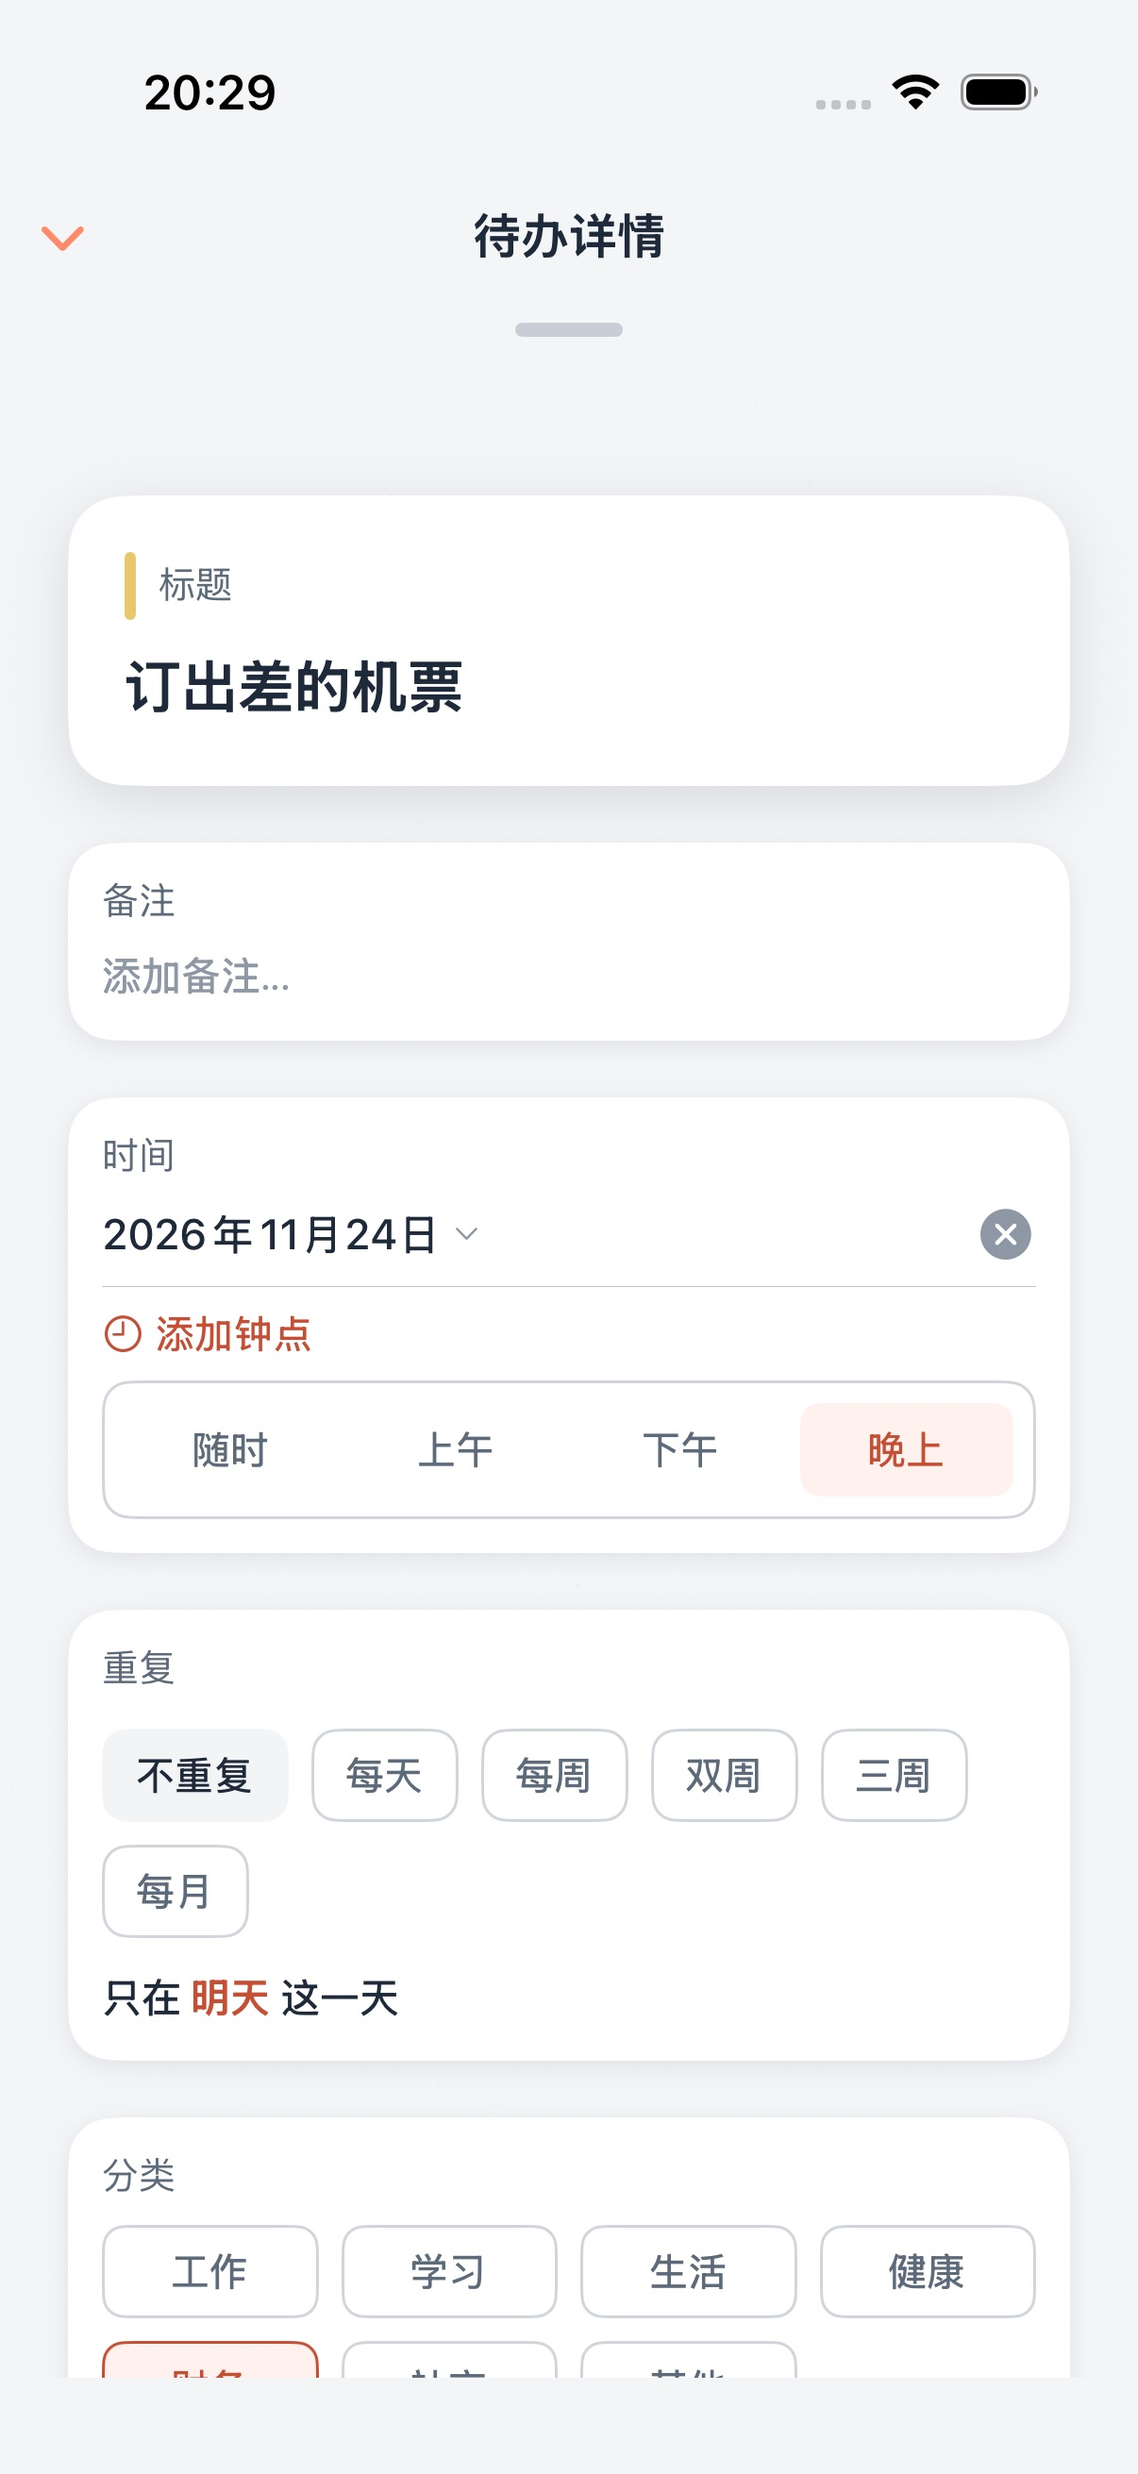
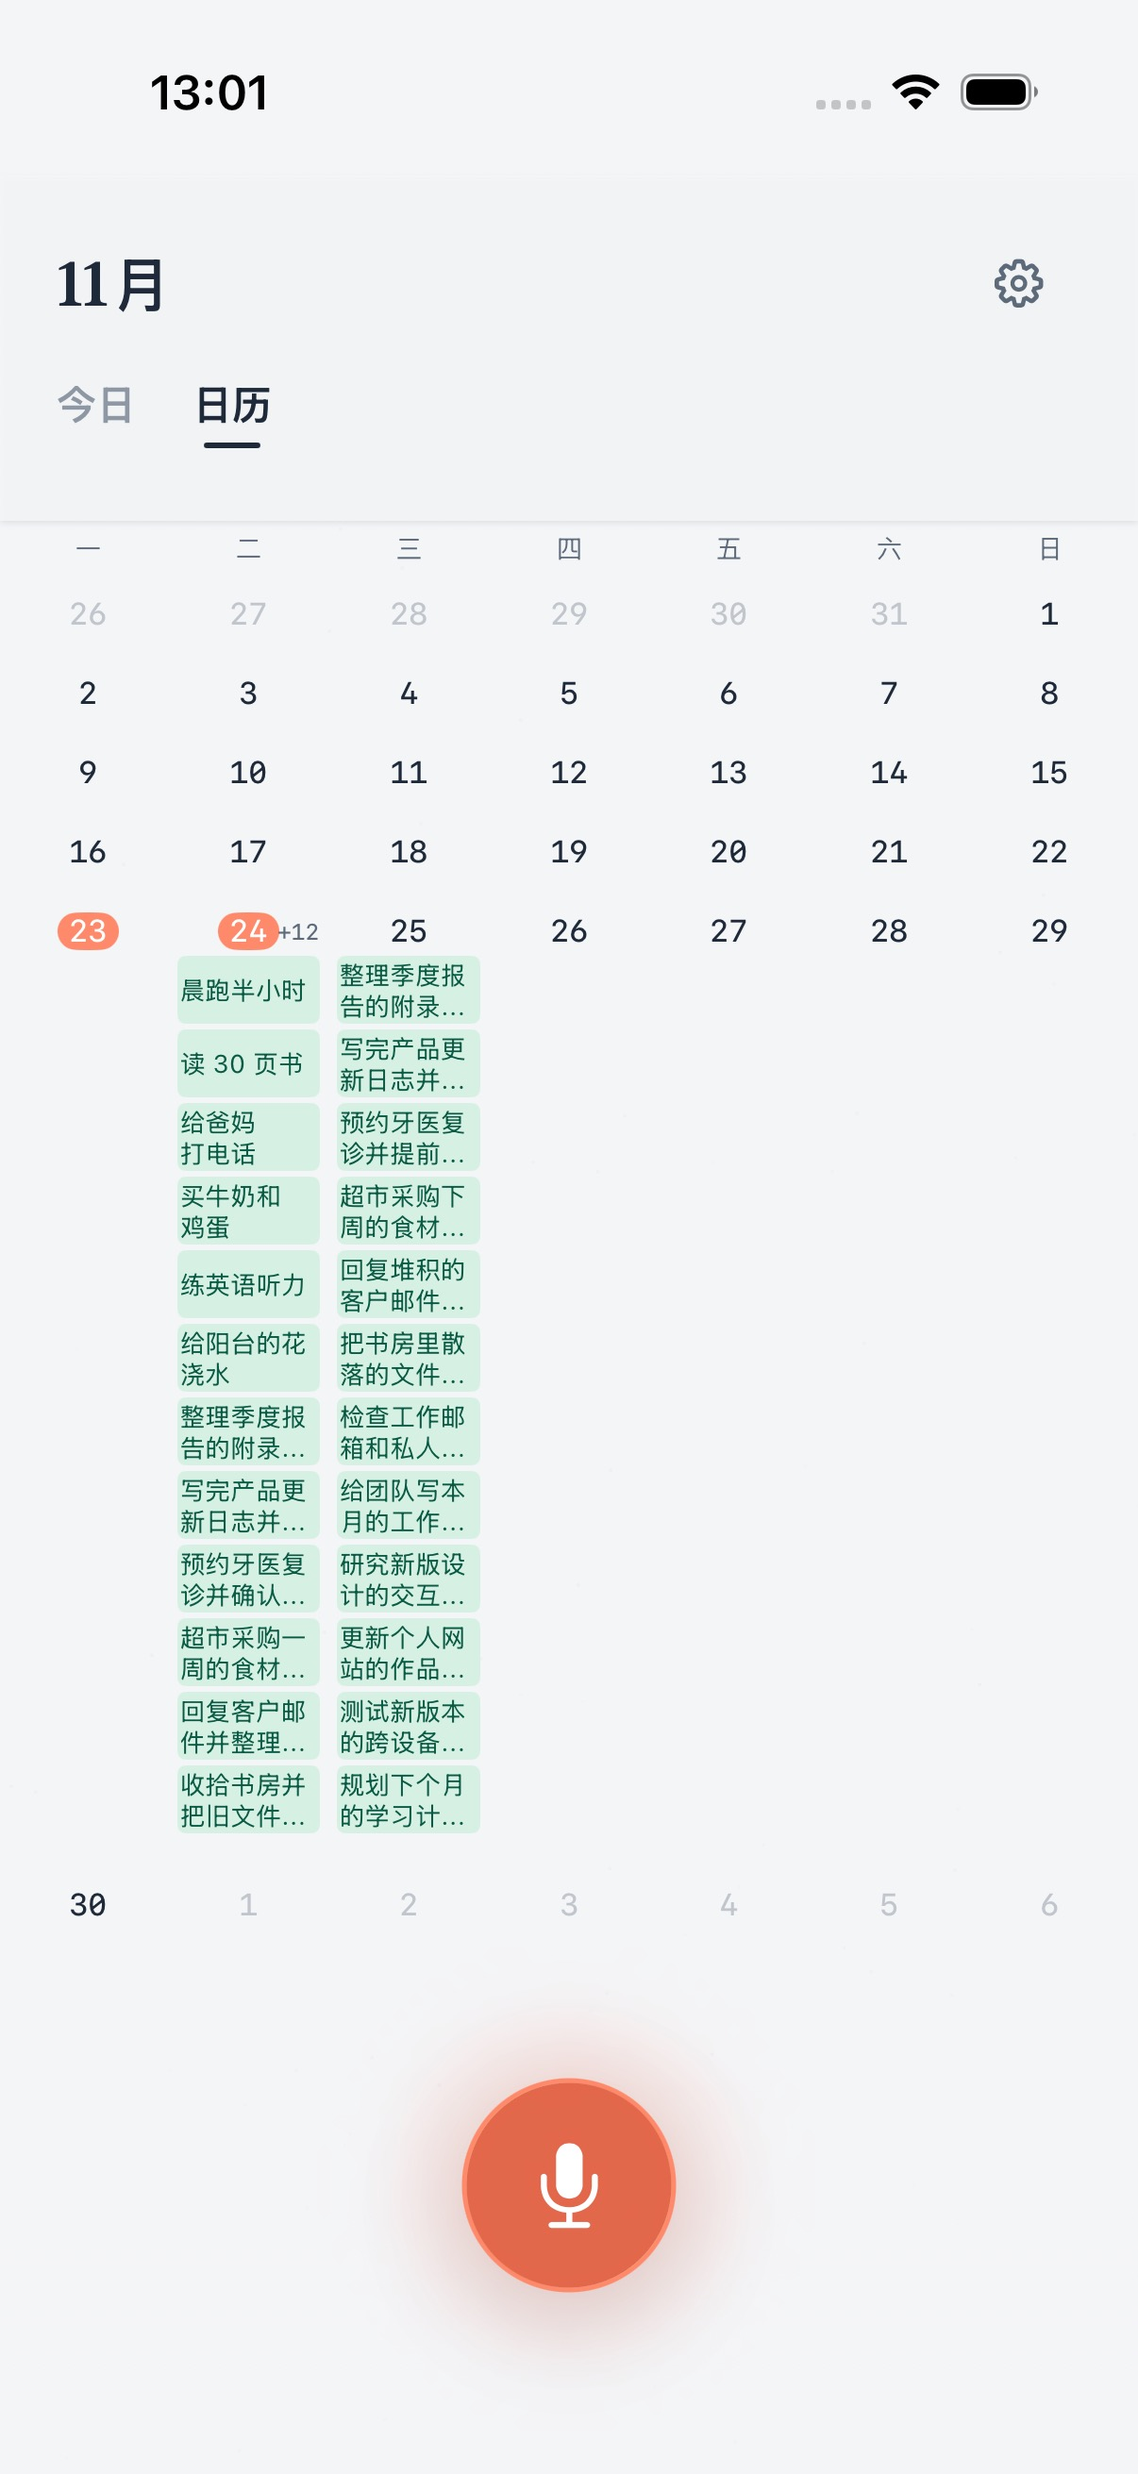
docs(month-grid): 补 +N 验收截图,更正结果文档
Why: 上一轮 review 遗留三处:①「+N 不再被截断」的改动没有任何视觉证据
(改后截图里没有出现 +N,结果文档「明天 7 条 +『+1』」一句与截图不符,
实际 8 条全显示、无溢出);②month-today-unselected-zh.jpg 误拍成任务
详情页;③结果文档引用的提交号 568d1ae/f88f192 与分支名在远端不存在
(rebase 前的本地对象)。

What: 重拍 month-today-unselected-zh(23 号选中 + 今天胶囊并存,双橙胶囊
经像素扫描确认);新增 overflow-plain-zh(非高亮格 +2、末条长标题截断而
+N 完整)、overflow-today-2digit-zh/en(今天胶囊 + 两位数 +14);新增
修复轮结果文档 fix-results(Swift 实测与任务书 Python 期望逐位一致、
全量 521/0/2、两位数 +N 与胶囊间隙实测 0.33-0.67pt 未重叠);更正上轮
结果文档 §1 提交号 / §5 两行描述并新增 §9;测试注释 RED 数字精确化
(旧码收件人第 0/1/2 周、第 0 周分到 9pt 的明细)。

Impact: 纯文档 + 截图 + 注释,无逻辑变更。两位数 +N 与胶囊未重叠,按
任务书「重叠才交回定夺」不动布局;三位数会相碰已记录备查。双 review
循环一处误判(2025-11/周日始)经模拟器时钟 + 周起始硬编码 + 表头 OCR
三重证据回退,过程记录在 fix-results §6.8。第 2 提交 hash 不自引用,
以分支 HEAD 为准(fix-results §6.6)。

diff --git a/VoiceTodoTests/UI/HomeMonthAllocatorTests.swift b/VoiceTodoTests/UI/HomeMonthAllocatorTests.swift
@@ -131,8 +131,9 @@ final class HomeMonthAllocatorTests: XCTestCase {
 
     /// review 复现(2026-11-24,任务书 §1.2):4 周月、每周只有一天有事、预算 355.6(小数,
     /// 真机 GeometryReader 实况)。最忙周 5 未完成 + 2 已完成,其余周 1/2、3/5、1/1。
-    /// 修前:Pass 3a 第一段出口 b 后,25.6pt 零头被「只剩已完成没显示」的第 1/2 周分走,
-    /// Pass 4 差一点装不下第 5 条未完成 → barsShown = [4, 1, 3, 1](去掉已完成再跑则是 [5, 1, 3, 1])。
+    /// 修前:Pass 3a 第一段出口 b 后,25.6pt 零头被平分给第 0/1/2 周,其中「只剩已完成没显示」
+    /// 的第 1/2 周分走 17pt,第 0 周只分到 9pt(多装一条需整整 26pt),Pass 4 装不下第 5 条未完成
+    /// → barsShown = [4, 1, 3, 1](去掉已完成再跑则是 [5, 1, 3, 1])。
     /// 修后:Pass 3b 三档收件人先给还有未完成的周,零头全归第 0 周,结果与纯未完成输入逐位一致。
     func testLeftoverSlackGoesToOpenWeeksFirst() {
         let open = [

diff --git a/docs/month-grid-completed-and-move-to-later-fix-results.md b/docs/month-grid-completed-and-move-to-later-fix-results.md
@@ -1,0 +1,104 @@
+# 结果文档:月历「已完成让位」review 后修复
+
+> 对应任务书:`docs/month-grid-completed-and-move-to-later-fix-task.md`(`claude/blissful-ride-abz3wn` @ `3c2a7b5`)。
+> 上一轮:`docs/month-grid-completed-and-move-to-later-results.md`。
+> 分支:`task/month-grid-fix`,基线 `main` @ `4817003`。
+
+## 1. 提交
+
+| 提交 | 内容 |
+|---|---|
+| `8b29622` | `fix(month-grid): Pass 3b 零头先给还有未完成的周`(代码 + 测试) |
+| 第 2 提交 | `docs(month-grid): 补 +N 验收截图,更正结果文档`——即本结果文档与四张截图所在提交;提交 hash 不能在文档里自引用,以分支 HEAD 为准(见 §6.6) |
+
+## 2. §1.2 复现用例的 Swift 实测
+
+任务书给的期望值(评审时把 Swift 实现逐行翻成 Python 跑出):`barsShown = [5, 1, 3, 1]`、
+`rowHeights = [148, 44, 96, 44]`。
+
+Swift 实测(`testLeftoverSlackGoesToOpenWeeksFirst`,修后)**逐位一致**,无偏离记录。
+
+修前(同一用例在未修复代码上跑,RED 验证):
+
+- `barsShown = [4, 1, 3, 1]`——第 0 周少 1 条,正是任务书 §1.1 的 bug;
+- `rowHeights = [131, 53, 104, 44]`——旧码把 25.6pt 零头平分给第 0/1/2 周(per=8、余数 2 给第 0/1 周):
+  第 1/2 周(只剩已完成没显示)分走 17pt,第 0 周只分到 9pt,而它要多装第 5 条未完成需要
+  整整 26pt(122 → 148),差 17pt,Pass 4 装不下。
+
+其余 20 条分配器用例在未修复代码上**全绿**:bug 触发条件窄(第一段出口 b + 零头不足一条增量
++ 收件人含只剩已完成的周),小数预算随机 36 组没有踩中——与任务书 Python 侧「6 万组才统计
+出违规率」的结论一致。
+
+## 3. 测试
+
+- **修前 RED**(仅分配器类,`-only-testing:VoiceTodoTests/HomeMonthAllocatorTests`):执行 21 / 失败 4,失败全部集中在新增用例的 4 条断言,其余用例(含 5 组回归)不受影响。
+- **修后 GREEN**(全量,`xcodebuild test -only-testing:VoiceTodoTests`,iPhone 17 Pro / iOS 26.5 模拟器):**执行 521 / 失败 0 / 跳过 2**。跳过 = `VoiceInputTests` 两条权限弹窗用例(自带 skip,与上轮基线一致);521 = 上轮 520 + 本轮新增 1 条。
+- `testInvariantsHoldAcrossVariedInputs`:随机预算改带小数(整数 240–639 + 0–0.99),「用满预算」容差按任务书放宽到 0.5(Pass 3b 四舍五入既有行为,未改分配逻辑),修后通过。
+- 已知基线失败 `TodoDueDateShifterTests.testDSTSpringForward_fallsBackToMidnight` 属 `swift test` 协议目标,本轮未跑到(与上轮口径一致)。
+
+## 4. 截图(放 `docs/month-grid-shots/after/`)
+
+设备:iPhone 17 Pro 模拟器(iOS 26.5)。种子:今天 24 条未完成(短/中标题)、明天 12 条未完成
+(全部长标题)、上周三 5 条已完成;zh / en 各一轮;标题无撇号(launchArguments JSON 陷阱,
+上轮已踩)。驱动为临时追加在 `ScreenshotUITests.swift` 的 XCUITest(跑完已还原,见 §5)。
+
+| 文件 | 内容 |
+|---|---|
+| `month-today-unselected-zh.jpg` | **重拍**(初拍误成详情页):月历,23 号(昨天,空格子)被选中,与今天 24 号并排**两个橙色胶囊**;24 号「+12」(选中空日子后网格行高变高、今天露出 12 条) |
+| `overflow-plain-zh.jpg` | **非高亮**的 25 号格:「+2」,可见 10 条全部长标题,最后一条「更新个人网站的作品…」两行放不下被截断——「+N」仍完整显示在日数字右侧,不跟标题一起被截 |
+| `overflow-today-2digit-zh.jpg` | 今天(橙色胶囊)格:**两位数「+14」**(10 条可见 + 14 溢出 = 24 条) |
+| `overflow-today-2digit-en.jpg` | 英文界面同款:Nov / Today / Calendar / Mon–Sun(周一起始,与 zh 一致),「+14」,10 条英文事件条 |
+
+**两位数「+N」与橙色胶囊的重叠测量**(对 3x 截图做程序化像素扫描:橙色胶囊 bbox 与右侧灰色
+文字像素):
+
+| 图 | 胶囊右缘 → +N 左缘 | 结论 |
+|---|---|---|
+| `overflow-today-2digit-zh` | 1px@3x ≈ **0.33pt** | 贴着但**未重叠**,文字完整(宽 13.7pt,右缘与事件条对齐) |
+| `overflow-today-2digit-en` | 2px@3x ≈ **0.67pt** | 同上,未重叠 |
+| `month-today-unselected-zh` | 1px@3x ≈ **0.33pt**(+12) | 未重叠 |
+
+按任务书 §2「重叠才交回定夺」:未重叠,布局未动。
+
+观察:三位数(如 +100,约 20pt 宽)在这个格子宽度(约 52pt)下会与居中的胶囊相碰;当前
++N 上限受 `gridMaxBarsPerCellHardLimit`(15)约束到不了三位数,记录备查。
+
+## 5. 截图驱动(临时,未提交)
+
+沿用上轮做法:临时方法追加在 `ScreenshotUITests.swift` 尾部(`test4/test5_MonthGridFixShots_*`
++ 种子函数),截图完成后已 `git checkout` 还原,未提交。zh/en 两轮之间做了模拟器冷重启
+(上轮记录的「同会话二次启动卡死」坑)。途中修正两处驱动问题:
+
+1. `element(boundIndex:)` 在当前 SDK 被解析成 `XCUIElementQuery` 的 `element` **属性**
+   (类型 XCUIElement),再调用报「cannot call value of non-function type」→ 改用
+   `allElementsBoundByIndex`。
+2. 按 `MonthGridCell_` identifier 前缀找格子**静默落空**——Home 根容器把子元素 identifier
+   污染成 `HomeRootView`(`ScreenshotUITests.swift` 的 `buttonByLabel` 文档注释第 138-145 行
+   早有记录,初版没先查),第一版「未选中」截图里
+   没有任何日期被选中 → 改为按坐标点选 23 号日数字(位置由本轮 3x 截图实测定点),重拍后
+   双橙胶囊确认(程序化扫描:两个 21.3pt 胶囊簇)。
+
+## 6. 与任务书不一致的地方 / 自己做的判断
+
+1. **Swift 实测与任务书期望值完全一致**,未触发「以 Swift 实测为准」条款。
+2. 「未选中」截图里选中的是 **23 号(昨天,空格子)**——任务书未指定选哪天;选空日子的
+   原因:事件条会吞 tap 开详情(既有取舍),空格子点日数字区最稳。
+3. 重拍图里的 +N 是 **+12** 而非 +14:选中空日子后底部列表区变小、网格行高变高,今天多露出
+   2 条。仍是两位数,满足验收要求;+14 的两位数证据在 `overflow-today-2digit-zh.jpg`。
+4. en 轮只按任务书拍了 `overflow-today-2digit-en.jpg` 一张(其余三张任务书只要求中文)。
+5. 测试数字用 `-only-testing:VoiceTodoTests` 口径(任务书 §5 要求);UI 测试目标只跑了
+   截图用例,全量 UI 测试未跑(既有 6 红 UI 测试债与本案无关)。
+6. **第 2 提交的 hash 不写进本文档**:提交 hash 无法在它自己的内容里自引用(写入后 amend
+   会改变 hash,自相矛盾),以分支 HEAD 为准。
+7. **双 review 循环的精确性修正随第 2 提交交付**:循环(Three Check + code-review-expert
+   交替审)对本文档、上轮结果文档与测试注释做了数处精确性修正(指路/指位更正、RED 数字
+   解释补全,零逻辑改动)。第 2 提交实际内容 = 本结果文档 + 上轮结果文档更正 +
+   测试注释更正 + 四张截图,§1 行 2 只列了主体;`.swift` 变更仅为注释,与 `docs(...)` 提交
+   信息不冲突。
+8. **review 循环一处误判被回退**:循环第 1 轮据截图星期表头把月份判为「2025-11、周日始」
+   并改写了两处文档——经三重证据仲裁为误读(小字号表头认错字):①模拟器时钟实测
+   `Tue Nov 24 2026`(`xcrun simctl spawn <udid> /bin/date`);②`HomeCalendarState.monthDays`/
+   `startOfWeek` 硬编码周一起始(`(weekday + 5) % 7`,注释明写「若未来支持…周日起始,只改这里」);
+   ③表头放大 6 倍后逐字 OCR 为「一 二 三 四 五 六 日」。已回退该两处,2026-11 / 周一起始为准。
+   两种假设网格几何恰好同构(2026-11+周一始 ≡ 2025-11+周日始),仅凭列位置无法分辨,
+   后续如再遇年份/周序存疑,先查时钟与代码再动文档。

diff --git a/docs/month-grid-completed-and-move-to-later-results.md b/docs/month-grid-completed-and-move-to-later-results.md
@@ -1,14 +1,22 @@
 # 结果文档:月历「已完成让位」+ 长按「移到稍后」
 
 > 对应任务书:`docs/month-grid-completed-and-move-to-later-task.md`。
-> 分支:`task/month-grid-move-to-later`,基线 `main` @ `2d3def8`(任务书分支 `3837edb` 之上)。
+> 分支:内容已在 `main`(初稿写的 `task/month-grid-move-to-later` 在远端不存在,
+> 提交号同样有误,见 §1 更正);基线 `main` @ `2d3def8`(任务书分支 `3837edb` 之上)。
 
 ## 1. 提交
 
 | 提交 | 内容 |
 |---|---|
-| `568d1ae` | 任务一:行高按「未完成先、已完成后」两层需求分配,`+N` 移到日数字行,20 条新测试 |
-| `f88f192` | 任务二:长按菜单新增「移到稍后」(判定唯一口径 `canMoveToLater` + 写库 + 三语文案),10 条新测试 |
+| `4f785f1` | 任务一:行高按「未完成先、已完成后」两层需求分配,`+N` 移到日数字行,20 条新测试 |
+| `f81e89c` | 任务二:长按菜单新增「移到稍后」(判定唯一口径 `canMoveToLater` + 写库 + 三语文案),10 条新测试 |
+
+> **2026-11-24 更正:** 初稿引用的 `568d1ae` / `f88f192` 与分支名 `task/month-grid-move-to-later`
+> 在远端都不存在——它们是 rebase **前**的本地提交对象;实际进入 `main` 的是 rebase 后的
+> `4f785f1`(任务一)、`f81e89c`(任务二),提交内容一致(主题相同)。本轮 review 又发现并修复了
+> 任务一遗留的 Pass 3b 零头分配问题,见文末「review 后修复」与修复轮任务书
+> `docs/month-grid-completed-and-move-to-later-fix-task.md`(远端分支 `claude/blissful-ride-abz3wn`
+> @ `3c2a7b5`,未随本分支合入)。
 
 ## 2. 改动文件
 
@@ -59,8 +67,9 @@
 | 文件 | 内容 |
 |---|---|
 | `before/month-today-selected-zh.jpg` | **改前**:今天 7 件只显示 6 条、尾条标题截断、「+1」被吞成「…+」;明天 8 件只显示 4 条;上周已完成占 4 条灰条 |
-| `after/month-today-selected-zh.jpg` | **改后**:今天 7 条全显示、标题完整;明天 7 条 +「+1」完整显示在日数字右侧;上周已完成只占 1 条 |
-| `before/after month-today-unselected-zh.jpg` | 同上,今天未选中(点选了别的日期) |
+| `after/month-today-selected-zh.jpg` | **改后**:今天 7 条全显示、标题完整;上周已完成只占 1 条;明天 8 条全部显示、无溢出(初稿此行写的「明天 7 条 +『+1』完整显示在日数字右侧」与截图不符——该种子不产生 +N;「+N 不被截断」的证据见文末 §9 新增的 overflow-*.jpg) |
+| `before/month-today-unselected-zh.jpg` | 改前态:今天未选中(点选了别的日期) |
+| `after/month-today-unselected-zh.jpg` | 初拍误成任务详情页,review 后已重拍(23 号选中 + 今天胶囊并存),见文末 §9 |
 | `before/after month-today-*-en.jpg` | 同上两组,英文长标题 |
 | `after/menu-dated-zh.jpg` | 今天列表有日期任务长按:「移到时段 / 移到明天 / **移到稍后**」(在最下面) |
 | `after/after-move-toast-zh.jpg` | 点「移到稍后」后:toast「“…”已移回稍后」,任务离开今天列表 |
@@ -70,6 +79,9 @@
 | `after/menu-ja.jpg` | 日文:菜单含「「後で」に移動」 |
 
 当月(2026-11,周一起始)恰好是 6 周月,两种状态各一张已覆盖任务书 §1.6 的「6 周月份」要求。
+(依据:模拟器时钟 `Tue Nov 24 2026`;`HomeCalendarState.monthDays`/`startOfWeek` 硬编码周一起始
+(`(weekday + 5) % 7`);星期表头放大后逐字读出「一 二 三 四 五 六 日」。review 循环中曾据小字号
+表头误判为「2025-11 周日始」,已按上述三重证据回退。)
 
 ## 6. 与任务书不一致的地方 / 自己做的判断
 
@@ -91,3 +103,22 @@
 - 「待定日期」组用 `PendingDateTodoRow`,没有长按菜单;该组任务按 `canMoveToLater` 判定为可移,但本期没有 UI 入口(任务书 §2.1 明确本期不加,此处按要求注明)。
 - 「没能识别」组(`extractionOutcome != .parsed`)不显示「移到稍后」——清日期会进错组,判定已挡。
 - 重复任务不支持(本期拍板)。
+
+## 9. review 后修复(2026-11-24)
+
+初稿发布后的 review 发现三处问题,修复轮任务书与结果文档:
+`docs/month-grid-completed-and-move-to-later-fix-task.md`(在远端分支 `claude/blissful-ride-abz3wn`
+@ `3c2a7b5`,未随本分支合入)、
+`docs/month-grid-completed-and-move-to-later-fix-results.md`(分支 `task/month-grid-fix`,基线 `main` @ `4817003`)。
+
+1. **Pass 3b 零头分配 bug**(§1 提交的代码):Pass 3a 第一段出口 b 后,零头会分给
+   「只剩已完成没显示」的周,极端时已完成让未完成少显示一条。修复 = Pass 3b 收件人
+   改三档先到先得(还有未完成没显示完的周优先),复现用例
+   `testLeftoverSlackGoesToOpenWeeksFirst` 锁住,Swift 实测与任务书 Python 期望逐位一致。
+2. **截图证据缺口**:`after/month-today-unselected-zh.jpg` 初拍误成任务详情页(§5 已更正);
+   且改后截图没有出现「+N」,「+N 不再被截断」缺视觉证据——§5 初稿「明天 7 条 +『+1』
+   完整显示在日数字右侧」与实际截图不符(实际 8 条全显示、无溢出),已更正。补拍/新增
+   `month-today-unselected-zh`、`overflow-plain-zh`、`overflow-today-2digit-zh`、
+   `overflow-today-2digit-en` 四张,见修复轮结果文档 §4。
+3. **提交号更正**(§1 已改):初稿引用的 `568d1ae` / `f88f192` 与分支名在远端不存在,
+   实际进入 `main` 的是 rebase 后的 `4f785f1` / `f81e89c`。
